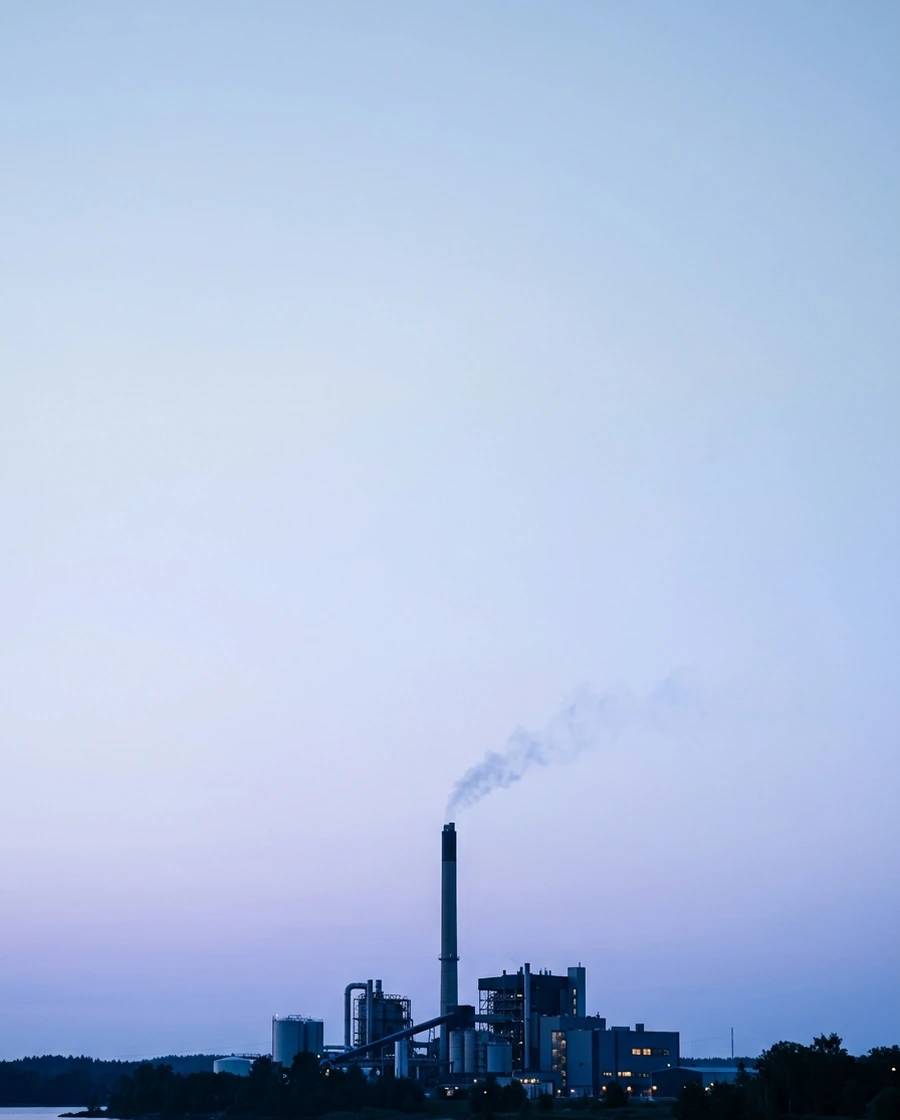
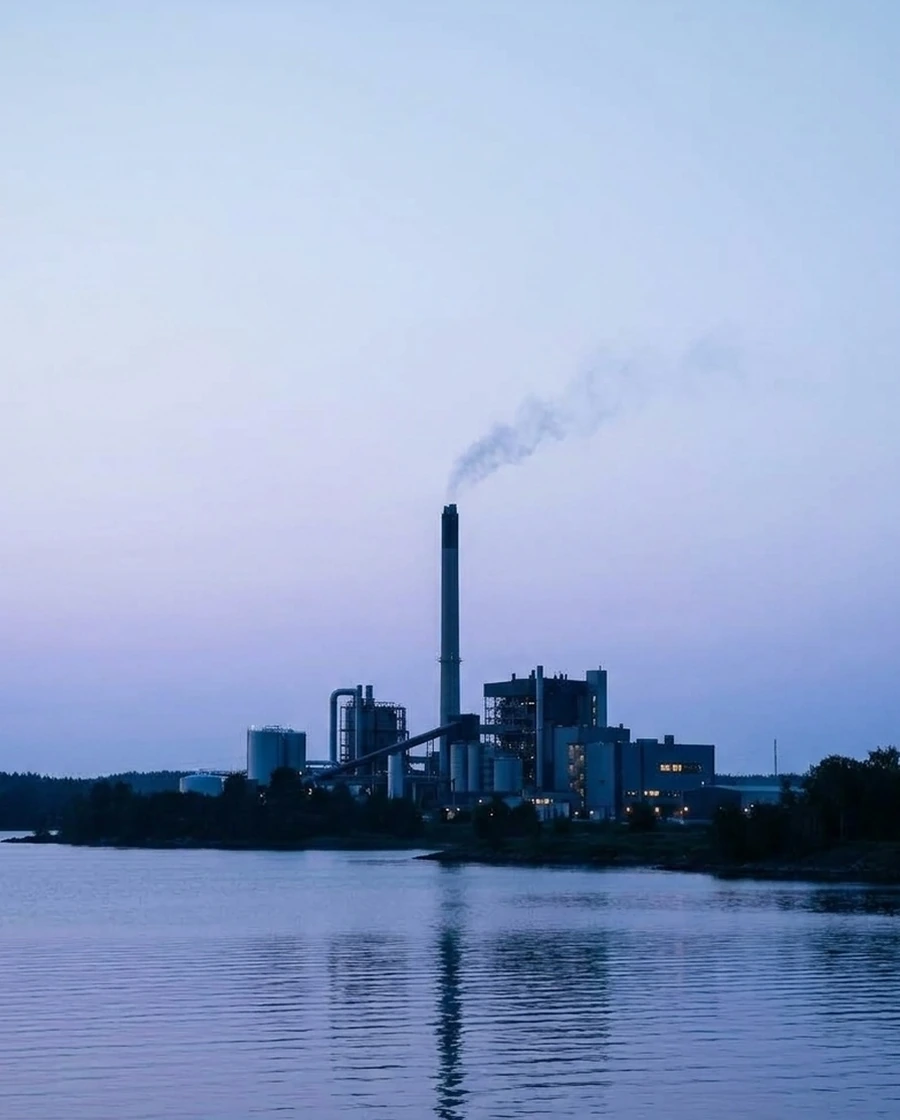
home (TESTE): nova foto do carbono na tira Flow, recortada para o lago ocupar 1/4 como no ESG

diff --git a/index.html b/index.html
@@ -2646,7 +2646,7 @@ body>*{position:relative;z-index:1}
     <!-- 29/09: TESTE, a tira com as fotos feitas no Google Flow, de volta ao FILTRO EM COR (a versao azul durou uma rodada; as -lum-fl/-bayer-fl ficam no disco). Apagar este bloco, o CSS .sh-tira--flow e a chamada «tira Flow» para desfazer. -->
     <div class="sh-tira sh-tira--flow">
       <article class="sh-col sh-col--carbono">
-        <img class="sh-foto" src="img/flow-carbono-cor-bayer-fl.webp?v=29092026d" data-lum="img/flow-carbono-cor-fl.webp?v=29092026d" alt="" loading="lazy" decoding="async">
+        <img class="sh-foto" src="img/flow-carbono-cor-bayer-fl.webp?v=29092026e" data-lum="img/flow-carbono-cor-fl.webp?v=29092026e" alt="" loading="lazy" decoding="async">
         <div class="sh-conteudo">
           <div>
             <span class="sh-indice">[ 01 ]</span>

diff --git a/_ferramentas/fotos_cor.py b/_ferramentas/fotos_cor.py
@@ -59,7 +59,7 @@ FONTE = {
     'lago-industria': 'Industrial_plant_reflecting_in_lake_2K_20260917203841.jpeg',
     'refinaria': 'refinaria-campo-ceu.jpg',
     # 29/09: as quatro fotos feitas no Google Flow (Nano Banana 2) para a tira de teste
-    'flow-carbono': 'flow-gestao-carbono-2.jpg',   # 29/09: a 2a (chamine sobre a agua); a 1a era flow-gestao-carbono.jpg
+    'flow-carbono': 'flow-gestao-carbono-4-recorte.jpg',   # 29/09: a 4a, recortada para o lago ocupar 1/4 como no ESG (o cru inteiro e -4.jpg); antes -2 (chamine) e a 1a
     'flow-iso': 'flow-implantacao-iso-2.jpg',   # 29/09: a 2a (o predio de vidro); a 1a era flow-implantacao-iso.jpg
     'flow-smeta': 'flow-smeta-2.jpg',   # 29/09: a 2a (operarios chegando ao portao); a 1a era flow-smeta.jpg
     'flow-esg': 'flow-gestao-carbono-3.jpg',   # 29/09: o lago claro (nome do arquivo cru ficou -carbono-3, era para o ESG); a 1a era flow-esg-sustentabilidade.jpg
